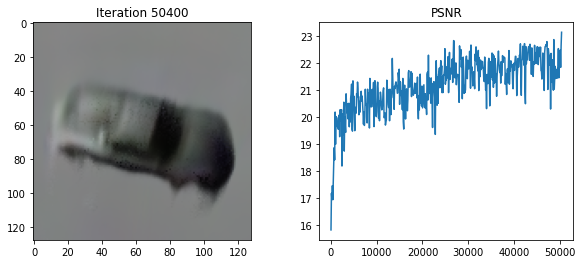
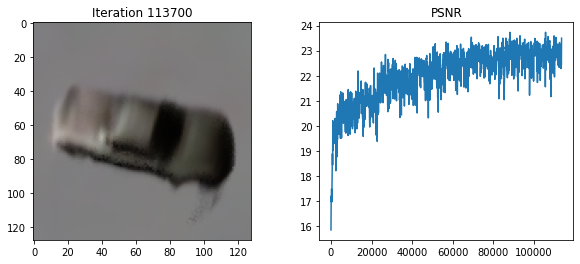
Update example output for pixelNeRF.

diff --git a/README.md b/README.md
@@ -42,9 +42,9 @@ and target view:
 
 ![](pixelnerf_tgt.png)
 
-[`run_pixelnerf.py`](run_pixelnerf.py) (which only uses 32 coarse samples and 64 fine samples instead of 64 coarse samples and 256 fine samples as in the pixelNeRF paper) generated the following after 50,400 iterations (approximately eight hours on a P100 GPU; the full pixelNeRF model was trained for 400,000 iterations, which took six days):
+[`run_pixelnerf.py`](run_pixelnerf.py) (which only uses 32 coarse samples and 64 fine samples instead of 64 coarse samples and 256 fine samples as in the pixelNeRF paper) generated the following after 113,700 iterations (~18 hours on a P100 GPU; the full pixelNeRF model was trained for 400,000 iterations, which took six days):
 
-**Loss**: 0.004834922030568123
+**Loss**: 0.004468636587262154
 
 ![](pixelnerf.png)
 
